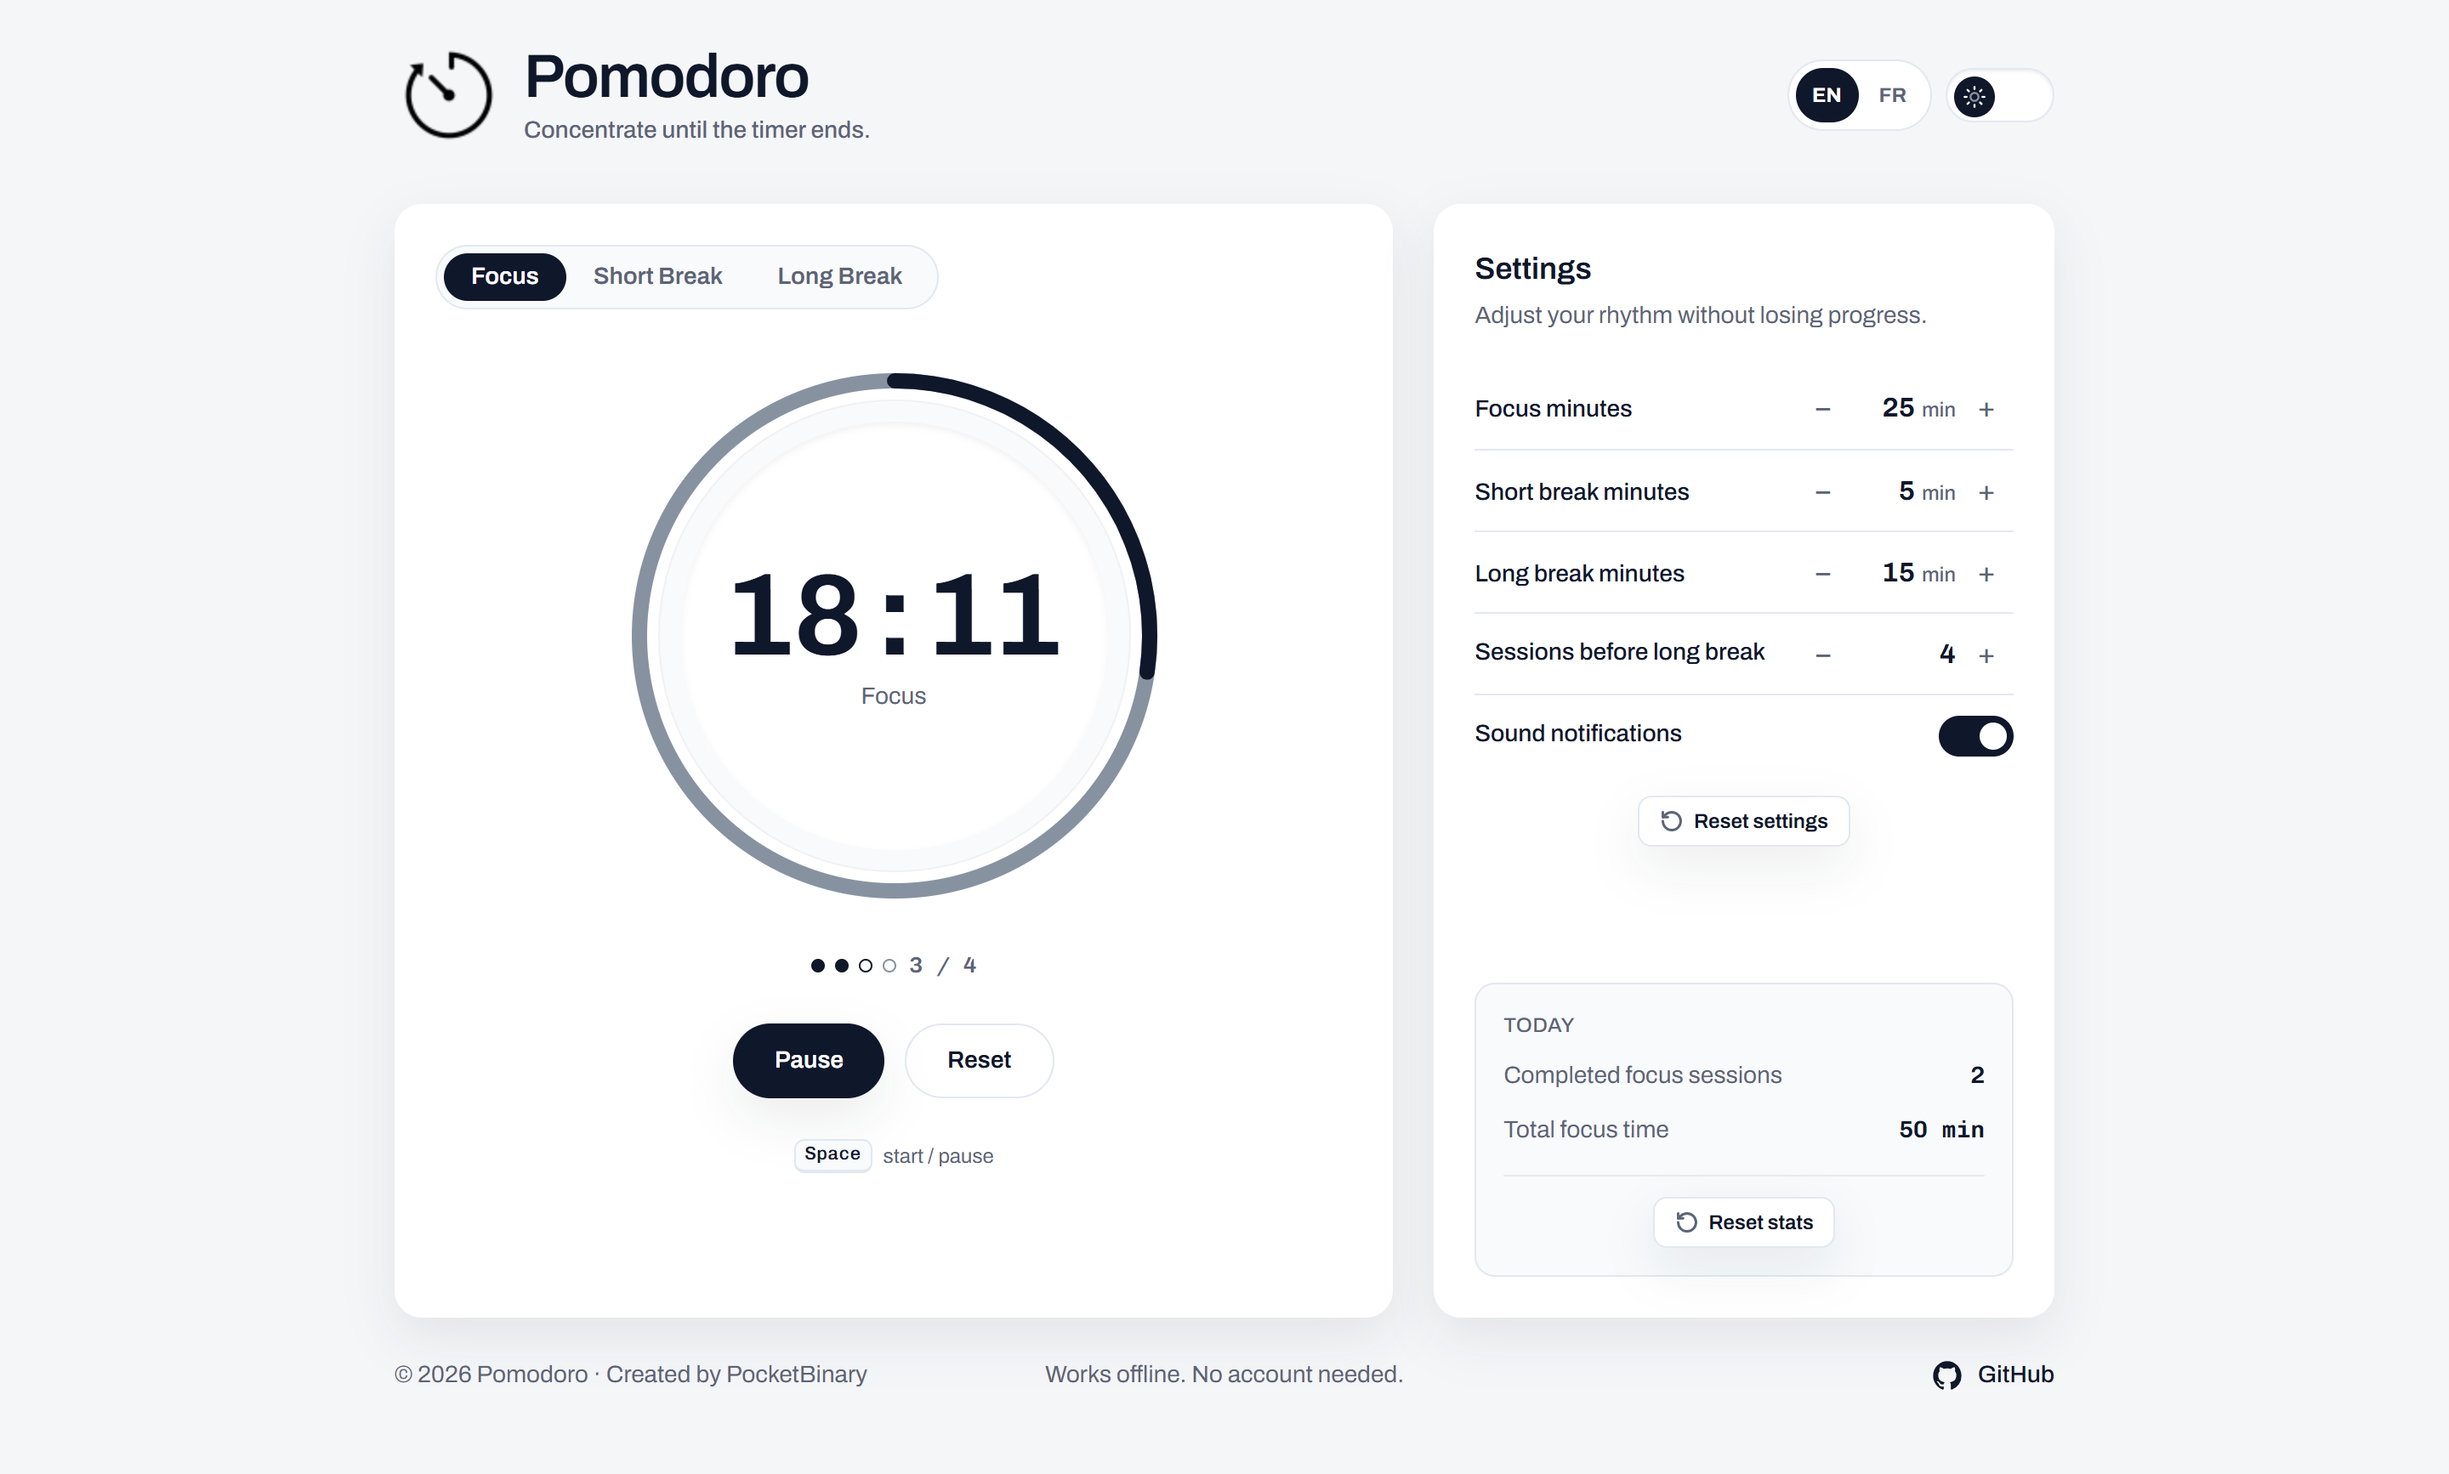
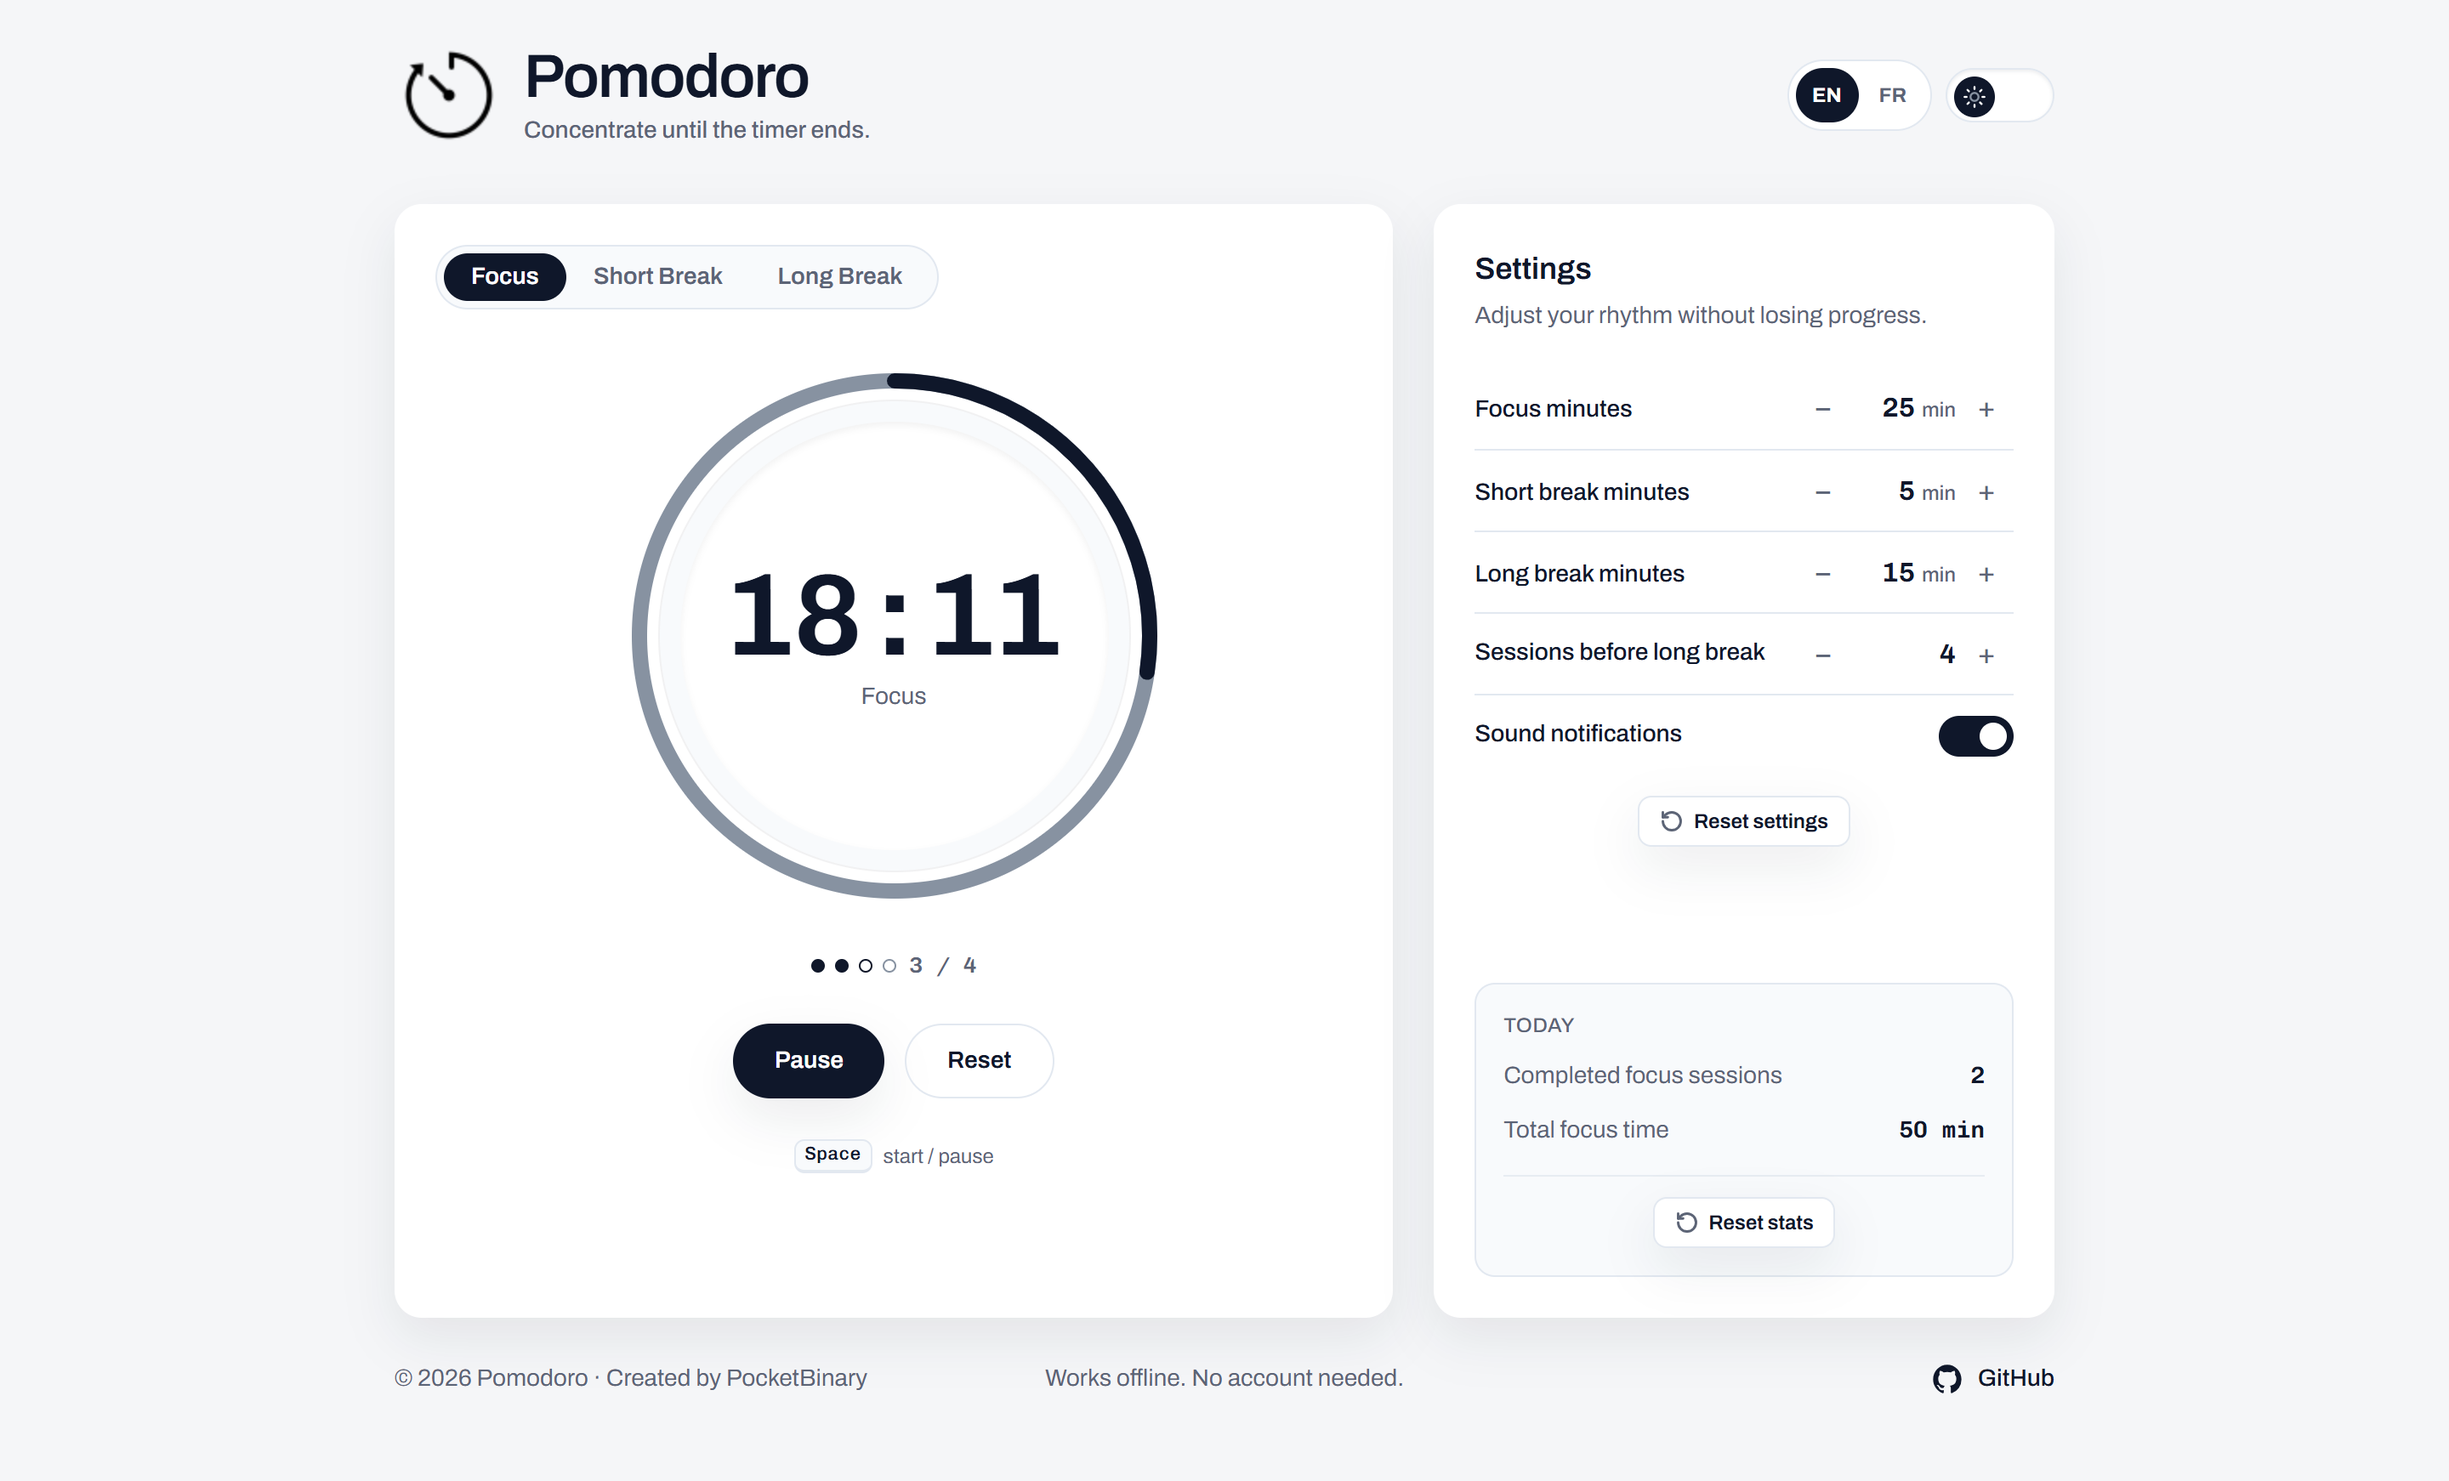
style(a11y): enhance WCAG 2.2 target size and update UI screenshots

diff --git a/css/style.css b/css/style.css
@@ -533,6 +533,9 @@
 
     .break-player input[type="range"] {
       width: 4.5rem;
+      /* 24 px minimum target size (WCAG 2.2 SC 2.5.8): the thumb stays the same,
+         the clickable band grows around it */
+      min-height: 1.5rem;
       accent-color: var(--app-checkbox, #475569);
     }
 
@@ -555,6 +558,15 @@
 
     .app-main-grid>aside>.today-card {
       margin-top: auto;
+    }
+
+    /* ============================================================
+       FOOTER
+       ============================================================ */
+    /* GitHub link: the icon row must reach the 24 px minimum target size
+       (WCAG 2.2 SC 2.5.8) without visually enlarging anything */
+    #githubLink {
+      min-height: 1.5rem;
     }
 
     /* ============================================================
